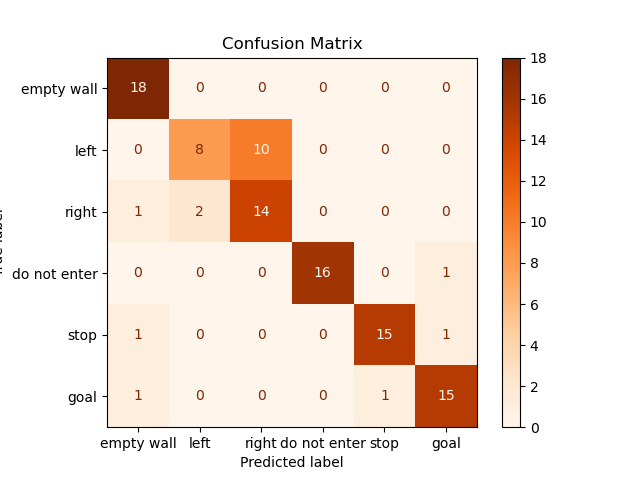
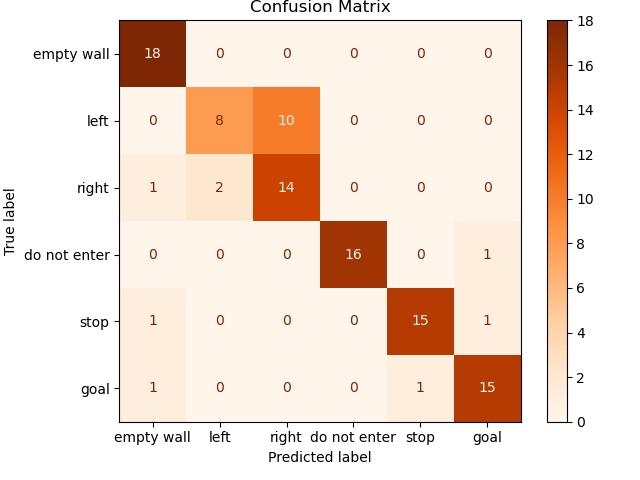
First working version of CNN with PyTorch. Accuracy: 98% during build and 82% during test.

diff --git a/model_tester.py b/model_tester.py
@@ -140,6 +140,7 @@ def test_model():
     cm = confusion_matrix(true_labels, predicted, labels=list(CLASS_LABELS.keys()))
     disp = ConfusionMatrixDisplay(confusion_matrix=cm, display_labels=CLASS_LABELS.values())
     disp.plot(cmap=plt.cm.Oranges)
+    plt.tight_layout()
     plt.title("Confusion Matrix")
     plt.show()
 

diff --git a/model_builder.py b/model_builder.py
@@ -169,6 +169,7 @@ def main():
     cm = confusion_matrix(all_labels, all_preds)
     disp = ConfusionMatrixDisplay(confusion_matrix=cm, display_labels=list(CLASS_LABELS.values()))
     disp.plot(cmap=plt.cm.Blues)
+    plt.tight_layout()
     plt.title("Confusion Matrix")
     plt.show()
 
